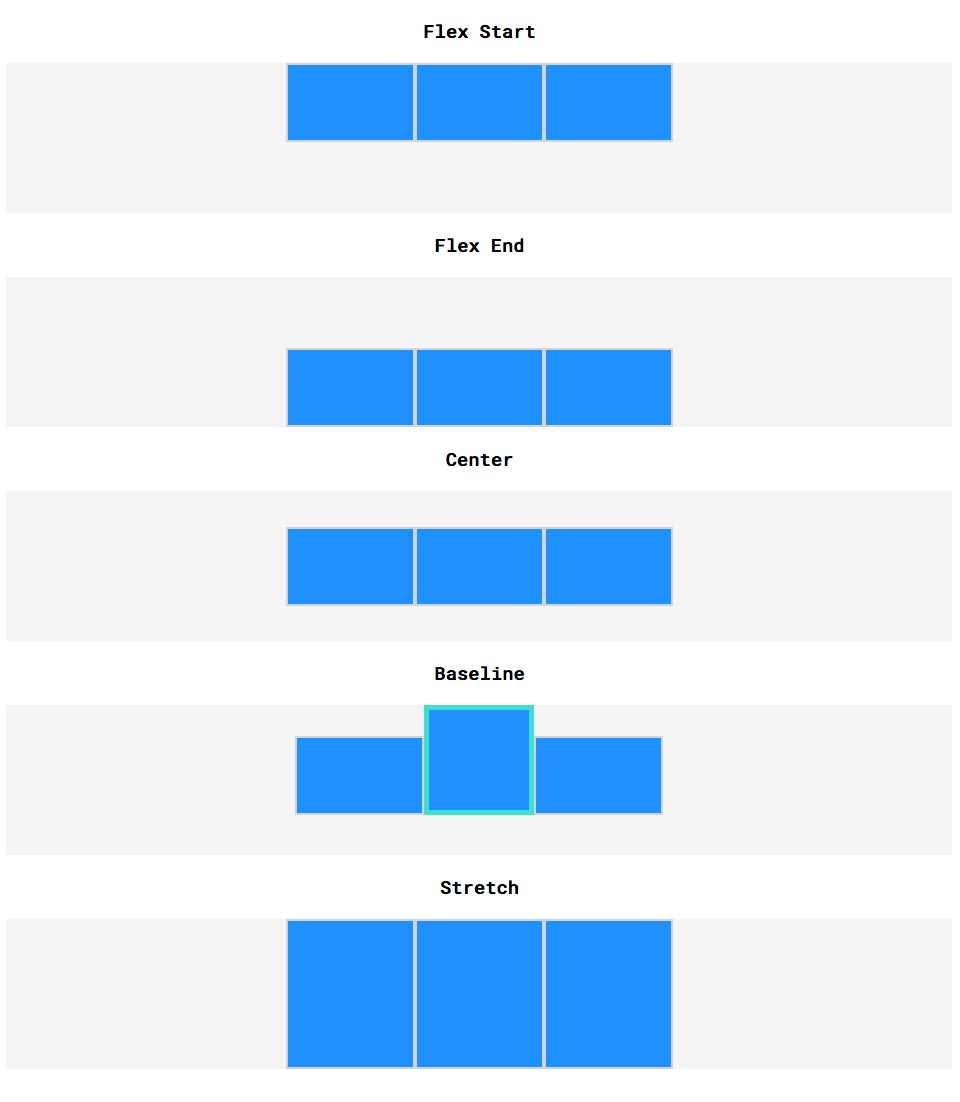
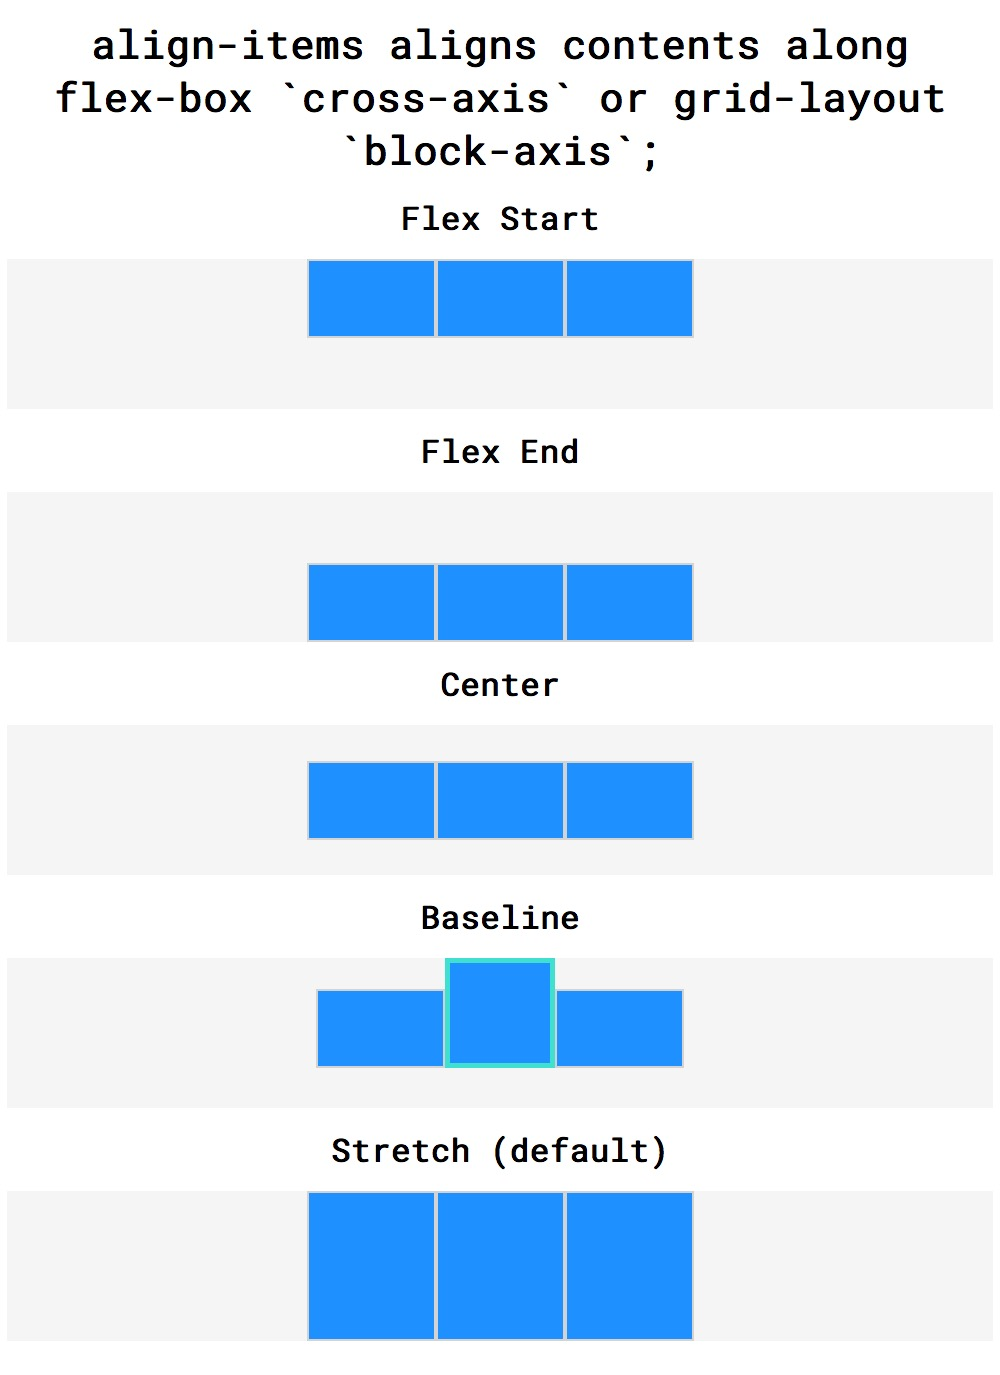
Re-work example

Changed region(s): [[0.2812, 0.3085, 0.7188, 0.9873], [0.25, 0.0, 0.9375, 0.2468], [0.0625, 0.0, 0.25, 0.0926]]

diff --git a/docs/css_notes/flex-box/flex-grow/index.html b/docs/css_notes/flex-box/flex-grow/index.html
@@ -8,7 +8,7 @@
 </head>
 
 <body>
-  <h1 class="desc">flex-grow: Grows item proportionaly to others, using parent's extra space</h1>
+  <h1 class="desc">flex-grow: Grows item proportionaly to siblings, using parent's extra space</h1>
 
   <h1>No flow-grows (default)</h1>
   <div id="no_grow">

diff --git a/docs/css_notes/css_grum_notes.md b/docs/css_notes/css_grum_notes.md
@@ -283,11 +283,16 @@ The box-sizing property controls the box model used by the browser;
 | `safe <setting>          ` | If the item overflows the alignment container causing data loss, <br>the item is instead aligned as ifthe alignment mode were start.
 | `unsafe <setting>        ` | Regardless of the relative sizes of the item and alignment container<br> and whether overflow which causes data loss might happen,<br> the given alignment value is honored.
 
-- E.g. Pic and [code](./flex-box/align-items/index.html) from course;;
+- Example, with [code](./flex-box/align-items/index.html) from course;;
   
-[<img src="./flex-box/align-items/example.jpg" alt="drawing" width="650"/>](./flex-box/align-items/example.jpg)
+[<img src="./flex-box/align-items/example.jpg" alt="drawing" width="350"/>](./flex-box/align-items/index.html)
 
 ### [`flex-grow`](https://developer.mozilla.org/en-US/docs/Web/CSS/flex-grow) - grow _item_ proportionaly to others, using parent's extra space
+
+| Setting | Effect on `cross-axis` |
+| :-----: | ------ |
+| Number | Sets flex-grow for item itself (i.e. not it's children).  Effect is proportional to flow-grow specified in siblings. NB: Can be fractions, but can't be negative. |
+| unset | Remove flex-gro from items
 
 - E.g. Pic and [code](./flex-box/flex-grow/index.html) from course;
   
